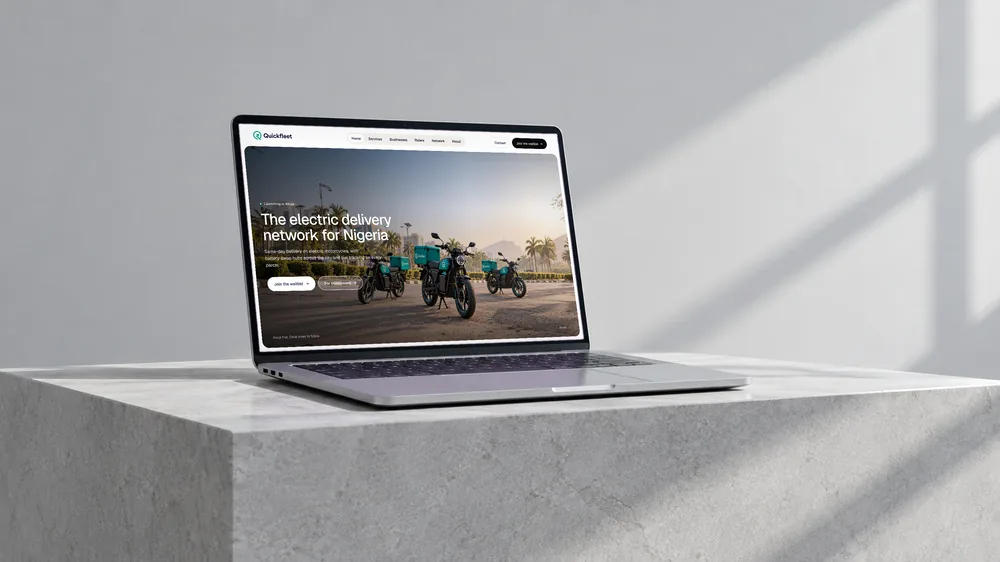
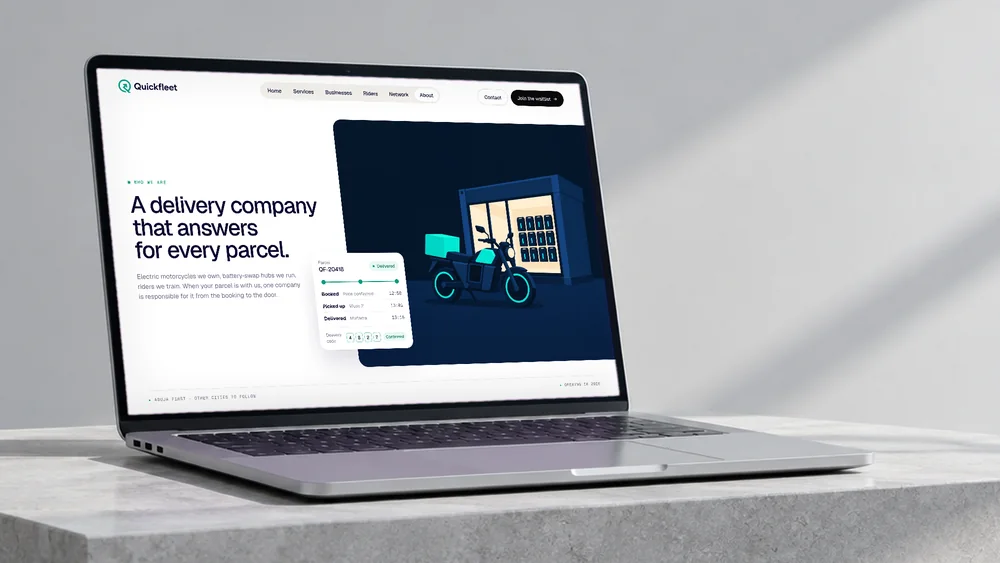
Go live: QuickFleet case study hero shows the About page
Claude-Session: https://claude.ai/code/session_01RM6AwGwnHcAYYXnMABwLuz

diff --git a/case-quickfleet.html b/case-quickfleet.html
@@ -800,7 +800,7 @@ a{color:inherit;text-decoration:none}
 .sf2-top .lk .lk-wrd{fill:#F6F4EE}
 @media (max-width:900px){ .lk{height:22px} }
 </style>
-<link rel="preload" as="image" href="/assets/img/cs-qf-sc-plinth.webp?v=0f846c9b" imagesrcset="/assets/img/cs-qf-sc-plinth-1000.webp?v=8a0db484 1000w, /assets/img/cs-qf-sc-plinth.webp?v=0f846c9b 2400w" imagesizes="(max-width:900px) 100vw, 96vw" fetchpriority="high"><style>@font-face{font-family:'Geist';src:url(/assets/fonts/geist-latin.woff2?v=f4634c3b) format('woff2');font-weight:100 900;font-display:swap}</style><style>
+<link rel="preload" as="image" href="/assets/img/cs-qf-sc-plinth.webp?v=6f6c31de" imagesrcset="/assets/img/cs-qf-sc-plinth-1000.webp?v=9ec7a3b0 1000w, /assets/img/cs-qf-sc-plinth.webp?v=6f6c31de 2400w" imagesizes="(max-width:900px) 100vw, 96vw" fetchpriority="high"><style>@font-face{font-family:'Geist';src:url(/assets/fonts/geist-latin.woff2?v=f4634c3b) format('woff2');font-weight:100 900;font-display:swap}</style><style>
 #nav.on-light{background:#fff}
 .v5{--pg:#fff;--pn:#F1F1EF;--hair:rgba(11,11,10,.12);--gap:8px;background:var(--pg);color:var(--ink);overflow-x:clip}
 .v5 .in{width:min(1400px,100%);margin:0 auto}
@@ -1323,6 +1323,7 @@ img.top{object-position:50% 0}
 .qb-idea .lv{border-radius:0;height:100%}
 @media (max-width:760px){.qb{aspect-ratio:16/9!important}.qb-m{aspect-ratio:var(--rm)!important}.qb-idea{aspect-ratio:1/1!important}}
 </style>
+<style id="qf-hero">.qf-hero picture{display:contents}.qf-hero img{width:100%;height:100%;object-fit:cover;transform:none!important;object-position:50% 50%!important}.v-heroimg.qf-hero{aspect-ratio:2026/1140!important}@media (max-width:760px){.v-heroimg.qf-hero{aspect-ratio:1/1!important}}</style>
 </head>
 <body>
 <header class="nav wrap" id="nav">
@@ -1411,7 +1412,7 @@ body{background:var(--ink)}
       <h1 data-reveal>An electric delivery business, <br class="v-br">built from the ground&nbsp;up</h1>
       <a class="btn v-btn" href="https://quickfleet.co" target="_blank" rel="noopener" data-reveal><span>Visit quickfleet.co</span><svg width="12" height="12" viewBox="0 0 12 12" aria-hidden="true"><path d="M3 9l6-6M4 3h5v5" fill="none" stroke="currentColor" stroke-width="1.5"/></svg></a>
     </div>
[2 lines of base64/hex data omitted]
   </div></section>
 
   <section class="v-intro wrap i4"><div class="in i4-g">

diff --git a/case-atawodi.html b/case-atawodi.html
@@ -800,7 +800,7 @@ a{color:inherit;text-decoration:none}
 .sf2-top .lk .lk-wrd{fill:#F6F4EE}
 @media (max-width:900px){ .lk{height:22px} }
 </style>
-<link rel="preload" as="image" href="/assets/img/cs-qf-sc-plinth.webp?v=0f846c9b" imagesrcset="/assets/img/cs-qf-sc-plinth-1000.webp?v=8a0db484 1000w, /assets/img/cs-qf-sc-plinth.webp?v=0f846c9b 2400w" imagesizes="(max-width:900px) 100vw, 96vw" fetchpriority="high"><style>@font-face{font-family:'Geist';src:url(/assets/fonts/geist-latin.woff2?v=f4634c3b) format('woff2');font-weight:100 900;font-display:swap}</style><style>
+<link rel="preload" as="image" href="/assets/img/cs-qf-sc-plinth.webp?v=6f6c31de" imagesrcset="/assets/img/cs-qf-sc-plinth-1000.webp?v=9ec7a3b0 1000w, /assets/img/cs-qf-sc-plinth.webp?v=6f6c31de 2400w" imagesizes="(max-width:900px) 100vw, 96vw" fetchpriority="high"><style>@font-face{font-family:'Geist';src:url(/assets/fonts/geist-latin.woff2?v=f4634c3b) format('woff2');font-weight:100 900;font-display:swap}</style><style>
 #nav.on-light{background:#fff}
 .v5{--pg:#fff;--pn:#F1F1EF;--hair:rgba(11,11,10,.12);--gap:8px;background:var(--pg);color:var(--ink);overflow-x:clip}
 .v5 .in{width:min(1400px,100%);margin:0 auto}
@@ -1606,7 +1606,7 @@ body{background:var(--ink)}
     <span class="v-tag"><i></i>Other work</span>
     <h2 class="v-nh">Next project</h2>
     <a class="v-card" href="/work/quickfleet" data-reveal>
[2 lines of base64/hex data omitted]
       <div class="vc-t"><h3>An electric delivery business, built from the ground up</h3><p>QuickFleet</p>
         <div class="vc-f"><span class="v-lab">Expertise</span><ul><li>Strategy</li><li>Brand</li><li>Product</li><li>Website</li></ul><i><svg width="14" height="14" viewBox="0 0 14 14" aria-hidden="true"><path d="M1 7h11M8 3l4 4-4 4" fill="none" stroke="currentColor" stroke-width="1.6"/></svg></i></div></div>
     </a>

diff --git a/case-newco.html b/case-newco.html
@@ -800,7 +800,7 @@ a{color:inherit;text-decoration:none}
 .sf2-top .lk .lk-wrd{fill:#F6F4EE}
 @media (max-width:900px){ .lk{height:22px} }
 </style>
-<link rel="preload" as="image" href="/assets/img/cs-qf-sc-plinth.webp?v=0f846c9b" imagesrcset="/assets/img/cs-qf-sc-plinth-1000.webp?v=8a0db484 1000w, /assets/img/cs-qf-sc-plinth.webp?v=0f846c9b 2400w" imagesizes="(max-width:900px) 100vw, 96vw" fetchpriority="high"><style>@font-face{font-family:'Geist';src:url(/assets/fonts/geist-latin.woff2?v=f4634c3b) format('woff2');font-weight:100 900;font-display:swap}</style><style>
+<link rel="preload" as="image" href="/assets/img/cs-qf-sc-plinth.webp?v=6f6c31de" imagesrcset="/assets/img/cs-qf-sc-plinth-1000.webp?v=9ec7a3b0 1000w, /assets/img/cs-qf-sc-plinth.webp?v=6f6c31de 2400w" imagesizes="(max-width:900px) 100vw, 96vw" fetchpriority="high"><style>@font-face{font-family:'Geist';src:url(/assets/fonts/geist-latin.woff2?v=f4634c3b) format('woff2');font-weight:100 900;font-display:swap}</style><style>
 #nav.on-light{background:#fff}
 .v5{--pg:#fff;--pn:#F1F1EF;--hair:rgba(11,11,10,.12);--gap:8px;background:var(--pg);color:var(--ink);overflow-x:clip}
 .v5 .in{width:min(1400px,100%);margin:0 auto}

diff --git a/case-pantech.html b/case-pantech.html
@@ -800,7 +800,7 @@ a{color:inherit;text-decoration:none}
 .sf2-top .lk .lk-wrd{fill:#F6F4EE}
 @media (max-width:900px){ .lk{height:22px} }
 </style>
-<link rel="preload" as="image" href="/assets/img/cs-qf-sc-plinth.webp?v=0f846c9b" imagesrcset="/assets/img/cs-qf-sc-plinth-1000.webp?v=8a0db484 1000w, /assets/img/cs-qf-sc-plinth.webp?v=0f846c9b 2400w" imagesizes="(max-width:900px) 100vw, 96vw" fetchpriority="high"><style>@font-face{font-family:'Geist';src:url(/assets/fonts/geist-latin.woff2?v=f4634c3b) format('woff2');font-weight:100 900;font-display:swap}</style><style>
+<link rel="preload" as="image" href="/assets/img/cs-qf-sc-plinth.webp?v=6f6c31de" imagesrcset="/assets/img/cs-qf-sc-plinth-1000.webp?v=9ec7a3b0 1000w, /assets/img/cs-qf-sc-plinth.webp?v=6f6c31de 2400w" imagesizes="(max-width:900px) 100vw, 96vw" fetchpriority="high"><style>@font-face{font-family:'Geist';src:url(/assets/fonts/geist-latin.woff2?v=f4634c3b) format('woff2');font-weight:100 900;font-display:swap}</style><style>
 #nav.on-light{background:#fff}
 .v5{--pg:#fff;--pn:#F1F1EF;--hair:rgba(11,11,10,.12);--gap:8px;background:var(--pg);color:var(--ink);overflow-x:clip}
 .v5 .in{width:min(1400px,100%);margin:0 auto}

diff --git a/case-rhanamerzy.html b/case-rhanamerzy.html
@@ -800,7 +800,7 @@ a{color:inherit;text-decoration:none}
 .sf2-top .lk .lk-wrd{fill:#F6F4EE}
 @media (max-width:900px){ .lk{height:22px} }
 </style>
-<link rel="preload" as="image" href="/assets/img/cs-qf-sc-plinth.webp?v=0f846c9b" imagesrcset="/assets/img/cs-qf-sc-plinth-1000.webp?v=8a0db484 1000w, /assets/img/cs-qf-sc-plinth.webp?v=0f846c9b 2400w" imagesizes="(max-width:900px) 100vw, 96vw" fetchpriority="high"><style>@font-face{font-family:'Geist';src:url(/assets/fonts/geist-latin.woff2?v=f4634c3b) format('woff2');font-weight:100 900;font-display:swap}</style><style>
+<link rel="preload" as="image" href="/assets/img/cs-qf-sc-plinth.webp?v=6f6c31de" imagesrcset="/assets/img/cs-qf-sc-plinth-1000.webp?v=9ec7a3b0 1000w, /assets/img/cs-qf-sc-plinth.webp?v=6f6c31de 2400w" imagesizes="(max-width:900px) 100vw, 96vw" fetchpriority="high"><style>@font-face{font-family:'Geist';src:url(/assets/fonts/geist-latin.woff2?v=f4634c3b) format('woff2');font-weight:100 900;font-display:swap}</style><style>
 #nav.on-light{background:#fff}
 .v5{--pg:#fff;--pn:#F1F1EF;--hair:rgba(11,11,10,.12);--gap:8px;background:var(--pg);color:var(--ink);overflow-x:clip}
 .v5 .in{width:min(1400px,100%);margin:0 auto}
